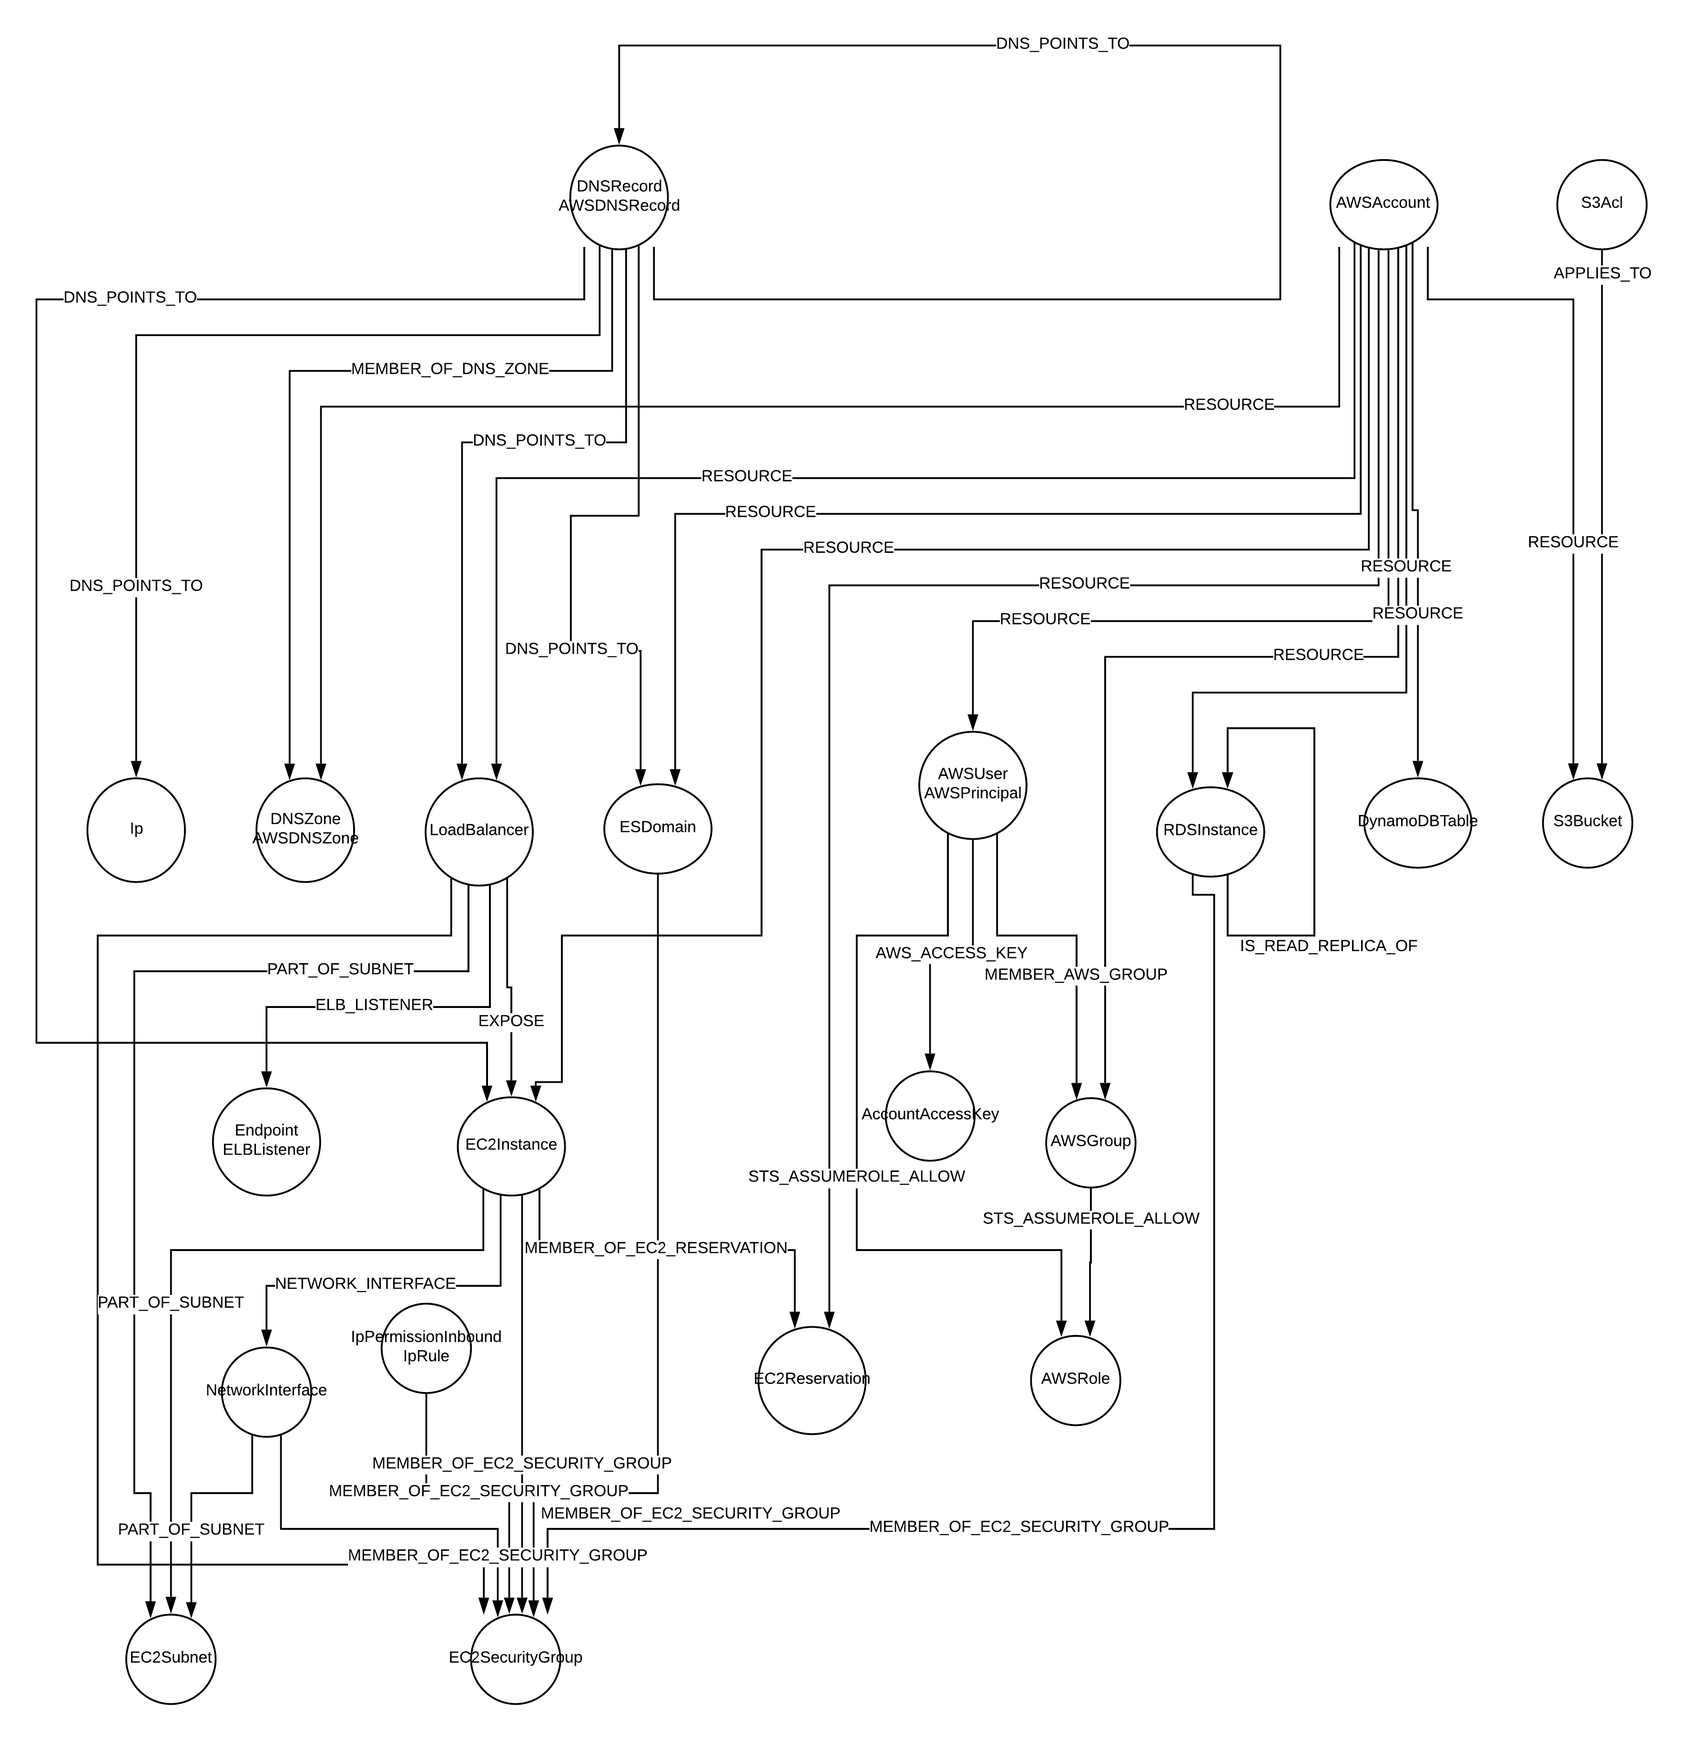
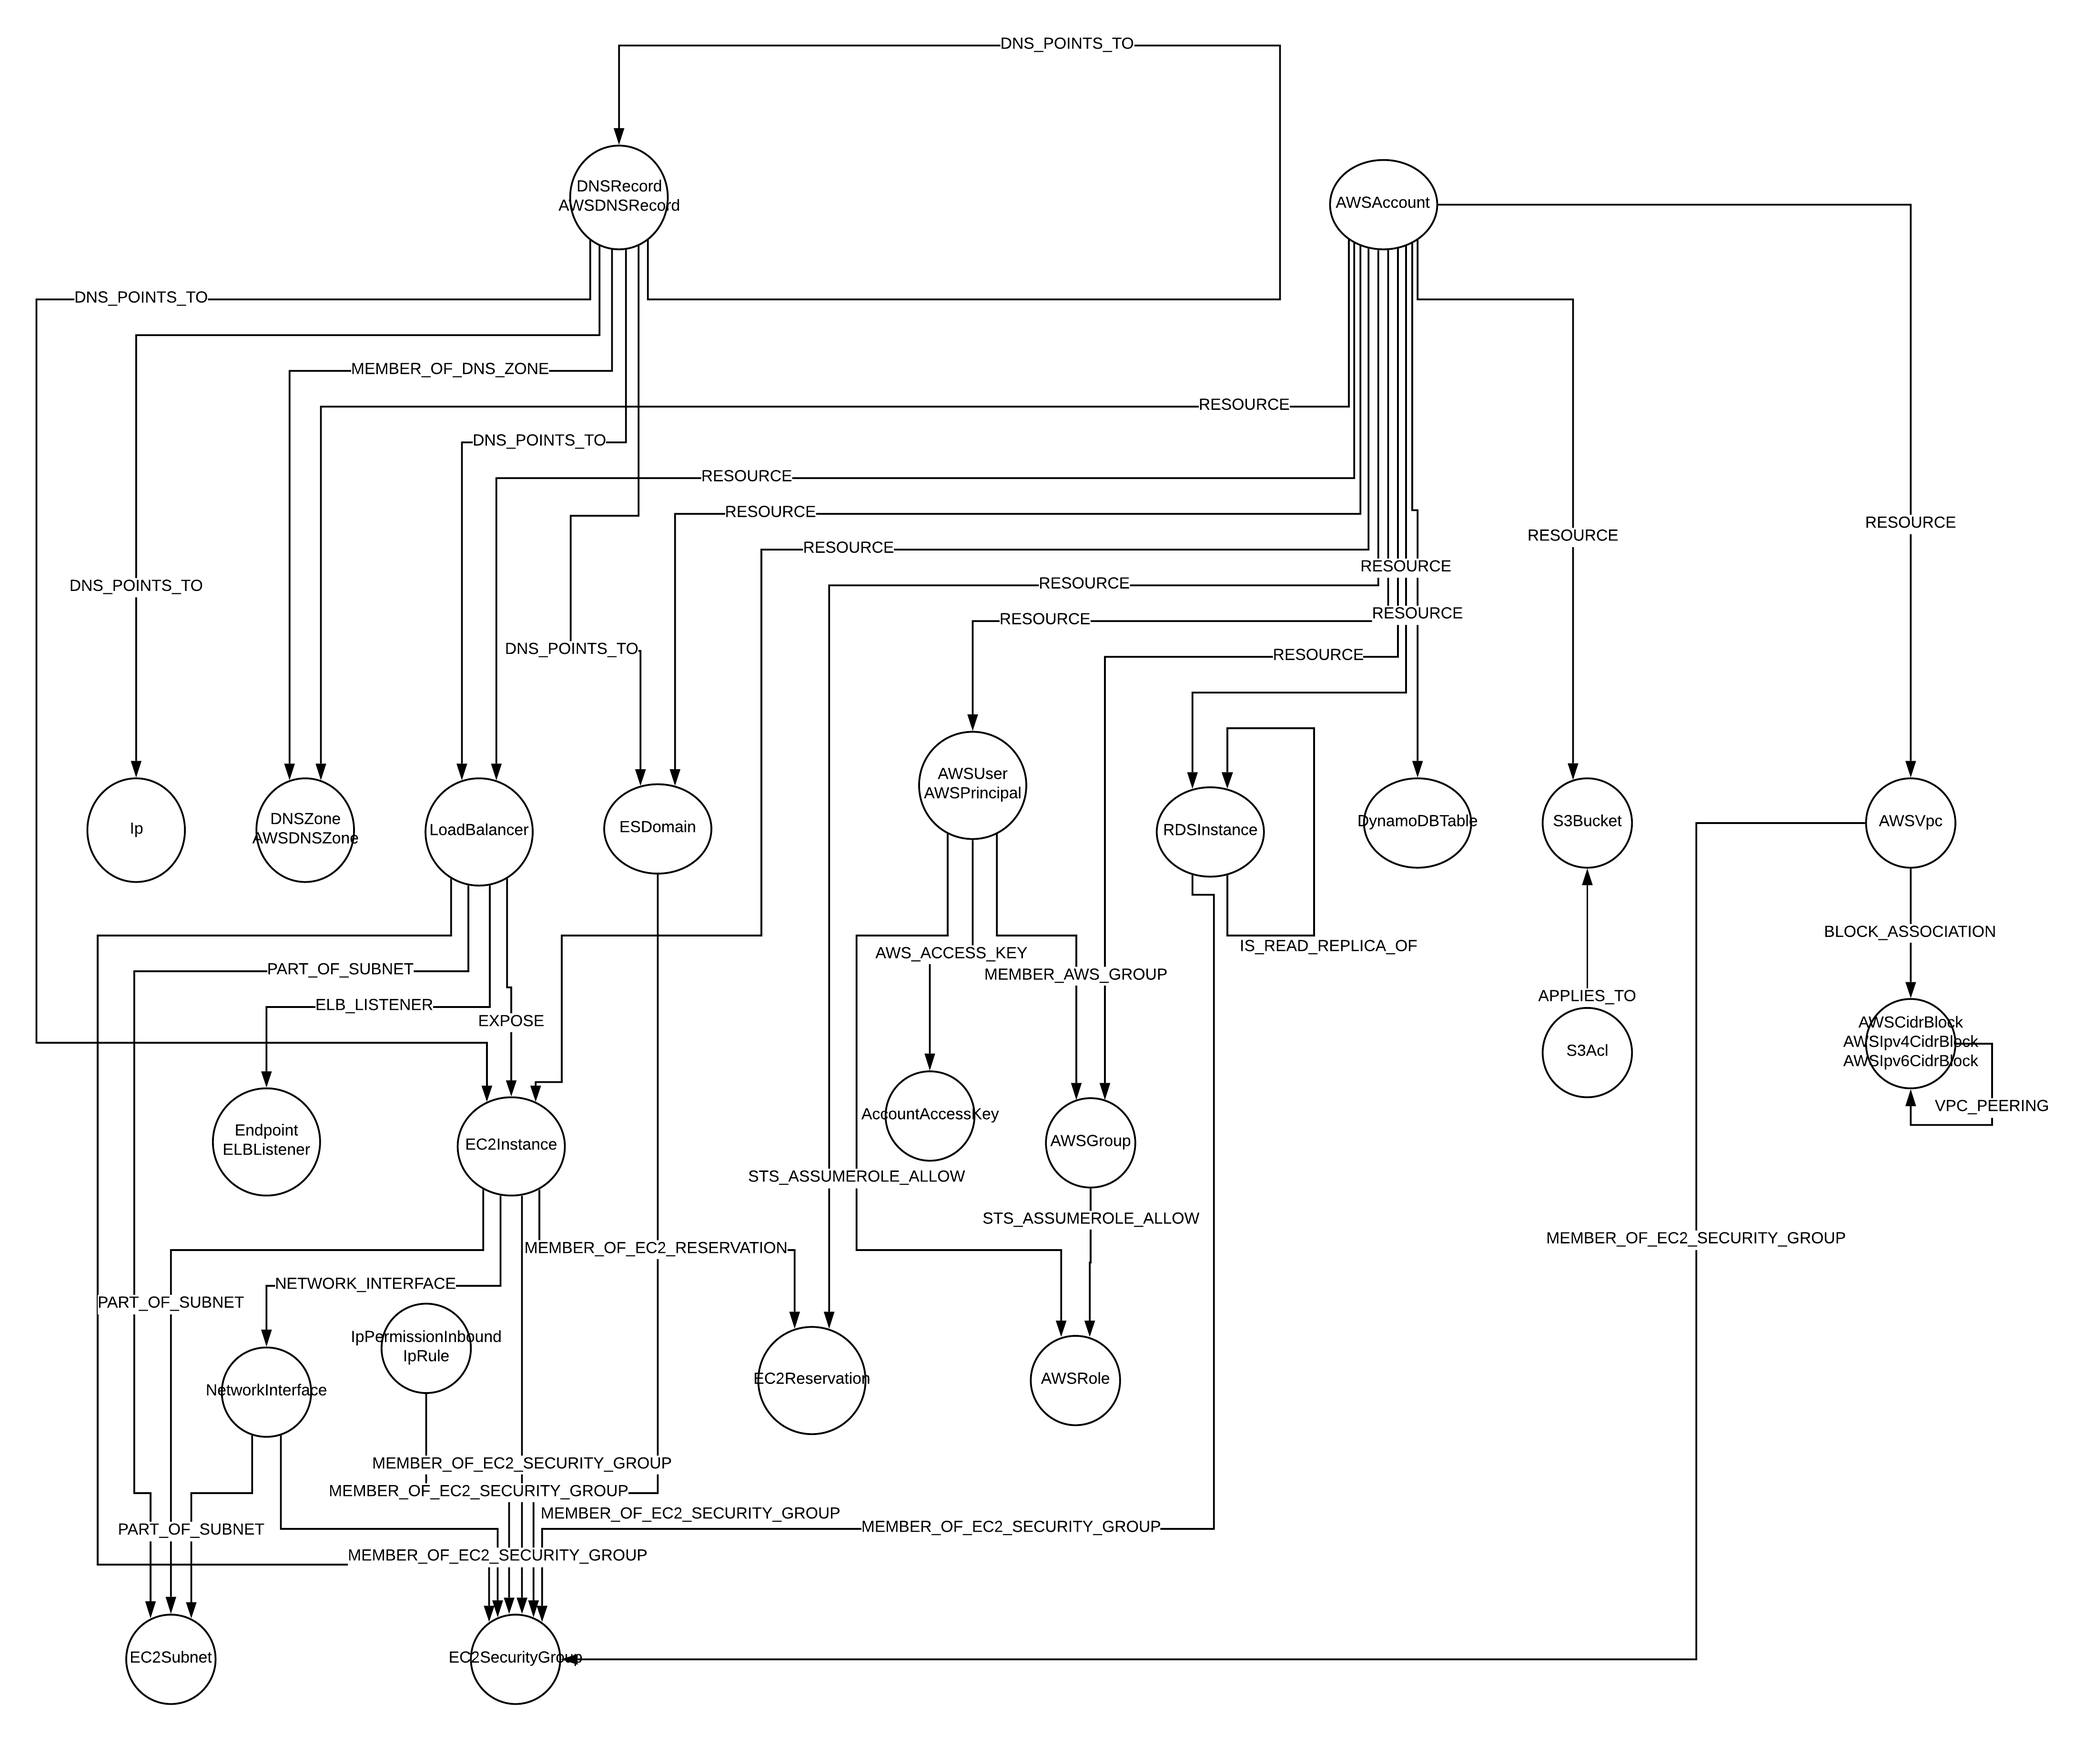
Address PR feedback

diff --git a/cartography/intel/aws/ec2.py b/cartography/intel/aws/ec2.py
@@ -1,7 +1,6 @@
 import botocore.config
 import logging
 import time
-import json
 
 from cartography.util import run_cleanup_job
 
@@ -254,7 +253,7 @@ def load_ec2_security_groupinfo(session, data, region, current_aws_account_id, a
             GroupId=group_id,
             GroupName=group.get("GroupName", ""),
             Description=group.get("Description", ""),
-            VpcId=group.get("VpcId", ""),
+            VpcId=group.get("VpcId", None),
             Region=region,
             AWS_ACCOUNT_ID=current_aws_account_id,
             aws_update_tag=aws_update_tag
@@ -671,11 +670,11 @@ def load_ec2_vpcs(session, data, current_aws_account_id, aws_update_tag):
         session.run(
             ingest_vpc,
             VpcId=vpc_id,
-            InstanceTenancy=vpc.get("InstanceTenancy", ""),
-            State=vpc.get("State", ""),
-            IsDefault=vpc.get("IsDefault", ""),
-            PrimaryCIDRBlock=vpc.get("CidrBlock", ""),
-            DhcpOptionsId=vpc.get("DhcpOptionsId", ""),
+            InstanceTenancy=vpc.get("InstanceTenancy", None),
+            State=vpc.get("State", None),
+            IsDefault=vpc.get("IsDefault", None),
+            PrimaryCIDRBlock=vpc.get("CidrBlock", None),
+            DhcpOptionsId=vpc.get("DhcpOptionsId", None),
             AWS_ACCOUNT_ID=current_aws_account_id,
             aws_update_tag=aws_update_tag)
 
@@ -819,7 +818,7 @@ def load_ec2_vpc_peering(session, data, aws_update_tag):
     SET requestor_account.lastupdated = {aws_update_tag}
     WITH accepter_block, requestor_account
     MERGE (requestor_vpc:AWSVpc{id: {RequestorVpcId}})
-    ON CREATE SET requestor_vpc.firstseen = timestamp()
+    ON CREATE SET requestor_vpc.firstseen = timestamp(), requestor_vpc.vpcid = {RequestorVpcId}
     SET requestor_vpc.lastupdated = {aws_update_tag}
     WITH accepter_block, requestor_account, requestor_vpc
     MERGE (requestor_account)-[resource:RESOURCE]->(requestor_vpc)
@@ -854,7 +853,7 @@ def load_ec2_vpc_peering(session, data, aws_update_tag):
             StatusCode=peering["Status"]["Code"],
             StatusMessage=peering["Status"]["Message"],
             ConnectionId=peering["VpcPeeringConnectionId"],
-            ExpirationTime=peering.get("ExpirationTime", ""),
+            ExpirationTime=peering.get("ExpirationTime", None),
             aws_update_tag=aws_update_tag)
 
 

diff --git a/docs/schema.md b/docs/schema.md
@@ -30,11 +30,15 @@
 ## Table of contents
 
 - [AWSAccount](#awsaccount)
+- [AWSCidrBlock](#awscidrblock)
 - [AWSGroup](#awsgroup)
+- [AWSIpv4CidrBlock](#awsipv4cidrblock)
+- [AWSIpv6CidrBlock](#awsipv6cidrblock)
 - [AWSPolicy](#awspolicy)
 - [AWSPrincipal](#awsprincipal)
 - [AWSPrincipal::AWSUser](#awsprincipalawsuser)
 - [AWSRole](#awsrole)
+- [AWSVpc](#awsvpc)
 - [AccountAccessKey](#accountaccesskey)
 - [DNSRecord](#dnsrecord)
 - [DNSRecord::AWSDNSRecord](#dnsrecordawsdnsrecord)
@@ -84,7 +88,8 @@ Representation of an AWS Account.
                               EC2Reservation,
                               EC2SecurityGroup,
                               ESDomain,
-                              LoadBalancer)
+                              LoadBalancer,
+                              AWSVpc)
 	```
 
 - An `AWSPolicy` node is defined for an `AWSAccount`.
@@ -99,6 +104,30 @@ Representation of an AWS Account.
 	(AWSAccount)-[AWS_ROLE]->(AWSRole)
 	```
 
+## AWSCidrBlock
+### AWSIpv4CidrBlock
+### AWSIpv6CidrBlock
+Representation of an AWS CidrBlock used in VPC configuration. The `AWSCidrBlock` defines the base label
+type for `AWSIpv4CidrBlock` and `AWSIpv6CidrBlock`
+
+| Field | Description |
+|-------|-------------|
+|firstseen| Timestamp of when a sync job discovered this node|
+|cidr_block| The CIDR block|
+|block_state| The state of the block|
+|association_id| the association id if the block is associated to a VPC
+|lastupdated| Timestamp of the last time the node was updated|
+|**id**| Unique identifier defined with the VPC association and the cidr_block
+
+### Relationships
+- `AWSVpc` association
+  ```
+  (AWSVpc)-[BLOCK_ASSOCIATION]->(AWSCidrBlock)
+  ```
+- VPC peering where two `AWSCidrBlock` have peering between them
+  ```
+  (AWSCidrBlock)<-[VPC_PEERING]-(AWSCidrBlock)
+  ```
 
 ## AWSGroup
 
@@ -270,7 +299,32 @@ Representation of an AWS [IAM Role](https://docs.aws.amazon.com/IAM/latest/APIRe
     (AWSAccount)-[AWS_ROLE]->(AWSRole)
     ```
 
+## AWSVpc
+Representation of an AWS VPC configuration
+More information on https://docs.aws.amazon.com/cli/latest/reference/ec2/describe-vpcs.html
+| Field | Description |
+|-------|-------------|
+|firstseen| Timestamp of when a sync job discovered this node|
+|vpcid| The VPC unique identifier|
+|primary_cidr_block|The primary IPv4 CIDR block for the VPC.|
+|instance_tenancy| The allowed tenancy of instances launched into the VPC.|
+|state| The current state of the VPC.|
+|**id**| Unique identifier defined VPC node (vpcid)
 
+### Relationships
+- `AWSAccount` resource
+  ```
+  (AWSAccount)-[RESOURCE]->(AWSVpc)
+  ```
+- `AWSVpc` and `AWSCidrBlock` association
+  ```
+  (AWSVpc)-[BLOCK_ASSOCIATION]->(AWSCidrBlock)
+  ```
+- `AWSVpc` and `EC2SecurityGroup` membership association
+  ```
+  (AWSVpc)<-[MEMBER_OF_EC2_SECURITY_GROUP]-(EC2SecurityGroup)
+  ```
+	
 ## AccountAccessKey
 
 Representation of an AWS [Access Key](https://docs.aws.amazon.com/IAM/latest/APIReference/API_AccessKey.html).
@@ -587,7 +641,8 @@ Representation of an AWS EC2 [Security Group](https://docs.aws.amazon.com/AWSEC2
 	 ESDomain,
 	 IpRule,
 	 IpPermissionInbound,
-	 RDSInstance)-[MEMBER_OF_EC2_SECURITY_GROUP]->(EC2SecurityGroup)
+	 RDSInstance,
+	 AWSVpc)-[MEMBER_OF_EC2_SECURITY_GROUP]->(EC2SecurityGroup)
 	```
 	
 - Load balancers can define inbound [Source Security Groups](https://docs.aws.amazon.com/elasticloadbalancing/latest/classic/elb-security-groups.html).
